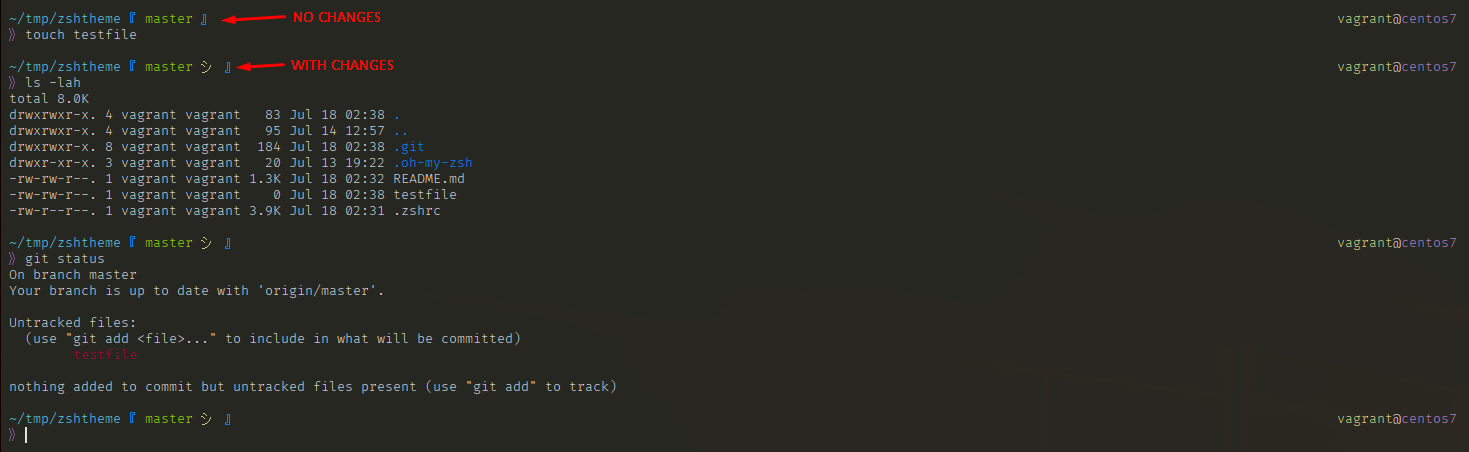
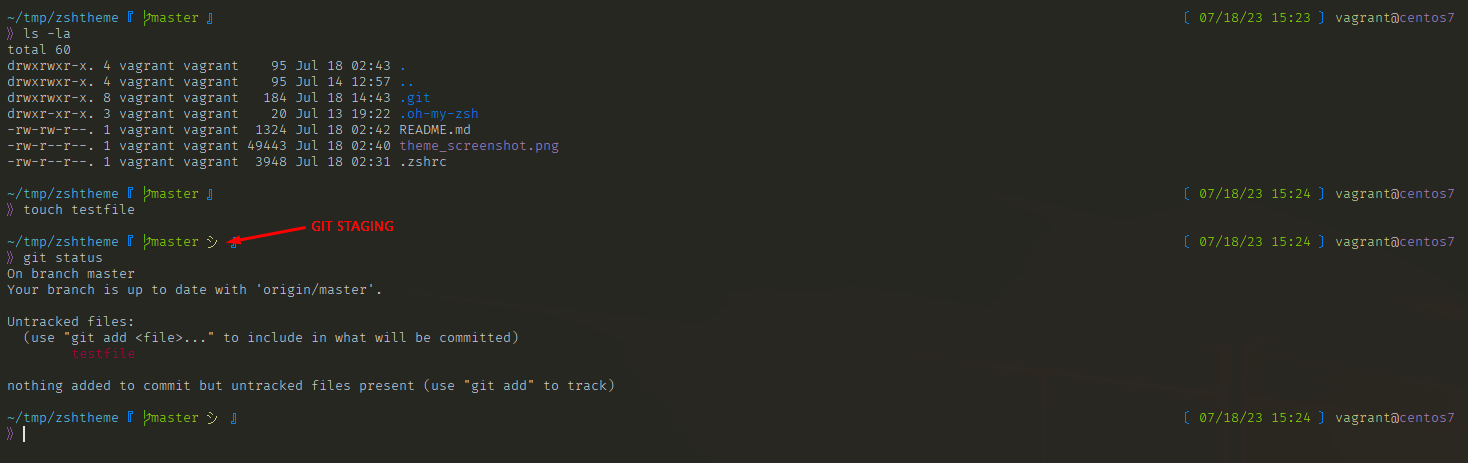
Update README.md and screenshot

diff --git a/README.md b/README.md
@@ -19,10 +19,6 @@ git clone https://github.com/adrianne01/zshtheme.git
 cd zshtheme
 
 # 2) Copy custom theme
-## 2.1) Copy whole custom directory
-cp -a ./.oh-my-zsh/custom/ ~/.oh-my-zsh/custom/
-## or
-## 2.2) Copy theme only
 cp -a ./.oh-my-zsh/custom/themes/ayd.zsh-theme ~/.oh-my-zsh/custom/themes/
 
 # 3) Add custom dir to .zshrc
@@ -44,3 +40,4 @@ source ~/.zshrc
 ### Themes referenced
 - [af-magic](https://github.com/ohmyzsh/ohmyzsh/wiki/Themes#af-magic)
 - [avit](https://github.com/ohmyzsh/ohmyzsh/wiki/Themes#avit)
+
